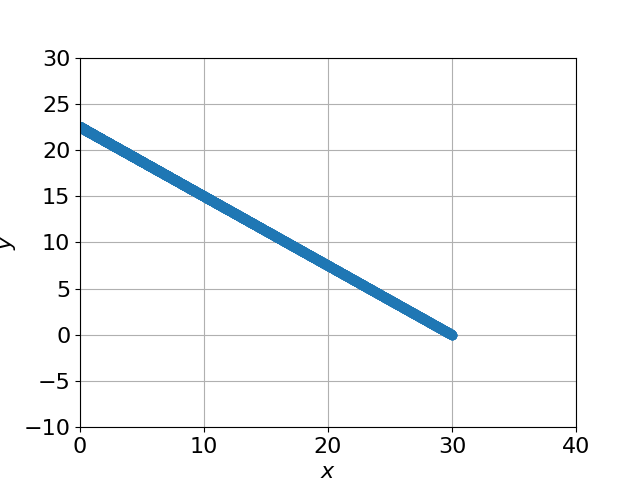
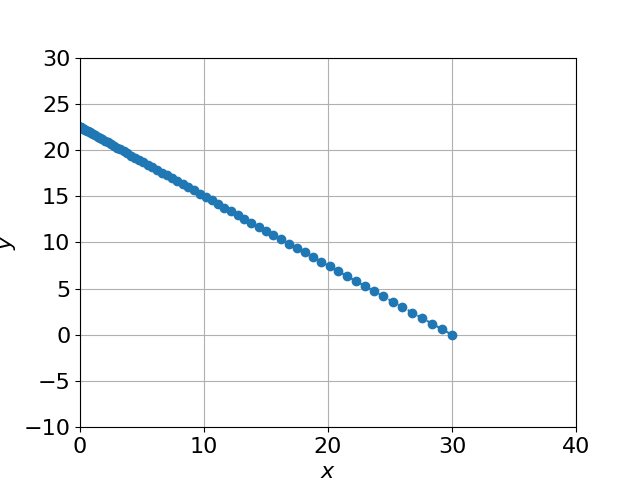
w1ex2: made straight ramp animation work

diff --git a/w1/ex2/try.py b/w1/ex2/try.py
@@ -1,25 +1,34 @@
-from scipy.integrate import solve_ivp
+import numpy as np
 import matplotlib.pyplot as plt
-
-tinit = 0
-tfinal = 20
-trange = [tinit,tfinal]
-yinit = [1,-1]
-
-dydt = lambda t, y: [y[1],-y[0]-1/10*y[1]]
-mysol = solve_ivp(dydt, trange, yinit)
-ts = mysol.t
-y0s = mysol.y[0]
-y1s = mysol.y[1]
-
+from matplotlib import animation
+from matplotlib.animation import PillowWriter
 plt.rc('font', size=16)
 
-fig, ax = plt.subplots()
-ax.plot(ts,y0s,linestyle='dashed',marker='o')
-ax.plot(ts,y1s,linestyle='dashed',marker='x')
-ax.set_xlabel('$t$')
-ax.set_ylabel('$y$')
-ax.legend(['$y_0$','$y_1$'])
+N = 101
+xs = np.linspace(0,90,N)
+ys = (100-((xs+10)%20-10)**2) * np.exp(-xs/30)
+xs = xs * np.exp(-xs/200)
 
-
+fig, ax = plt.subplots(figsize=(4, 6))
+ax.axis('equal')
+ax.plot(xs,ys)
 plt.savefig('try.png')
+plt.close()
+
+
+plt.rc('animation', html='jshtml')
+
+ball = ax.plot([],[],'ro')[0]
+
+def update(i):
+    ball.set_data([xs[i]], [ys[i]])
+    return [ball]
+
+
+anim = animation.FuncAnimation(fig,
+                               update,
+                               frames=N,
+                               interval=10,
+                               blit=True)
+anim.save('try.gif', writer=PillowWriter(fps=10))
+plt.close()

diff --git a/w1/ex2/boxsliding.py b/w1/ex2/boxsliding.py
@@ -40,16 +40,13 @@ x_init = 30 - y_init/dydx
 print(x_init)
 init_conditions = [x_init, y_init]
 
-sol = solve_ivp(ramp_system, trange, init_conditions, max_step=0.001, events=stop_at_x_30)
+sol = solve_ivp(ramp_system, trange, init_conditions, max_step=0.05, events=stop_at_x_30)
 ts = sol.t
 xs = sol.y[0]
 ys = sol.y[1]
 t_event = sol.t_events[0][0]
 
-print(f'Time taken to reach the end of the ramp: {t_event} seconds')
-
-print(f'xs: {xs}')
-print(f'ys: {ys}')
+print(f'Time taken to reach end of ramp: {t_event} seconds')
 
 plt.rc('font', size=16)
 fig, ax = plt.subplots(1, 1)
@@ -67,10 +64,10 @@ ramp, = ax.plot(xs, ys, 'b-')
 
 def update(frame):
     data = np.array([[xs[frame], ys[frame]]])
-    ax.set_xlim(0,40)
-    ax.set_ylim(-10, 30)
+    box.set_data([xs[frame]],[ys[frame]])
     return [box]
 
-anim = animation.FuncAnimation(fig, update, frames=len(ts), interval=50, blit=True)
-anim.save('sliding_box.gif', writer=PillowWriter(fps=10))
+anim = animation.FuncAnimation(fig, update, frames=range(0, len(ts), 2), interval=50, blit=True)
+anim.save('sliding_box.gif', writer=PillowWriter(fps=200))
+
 plt.close()
